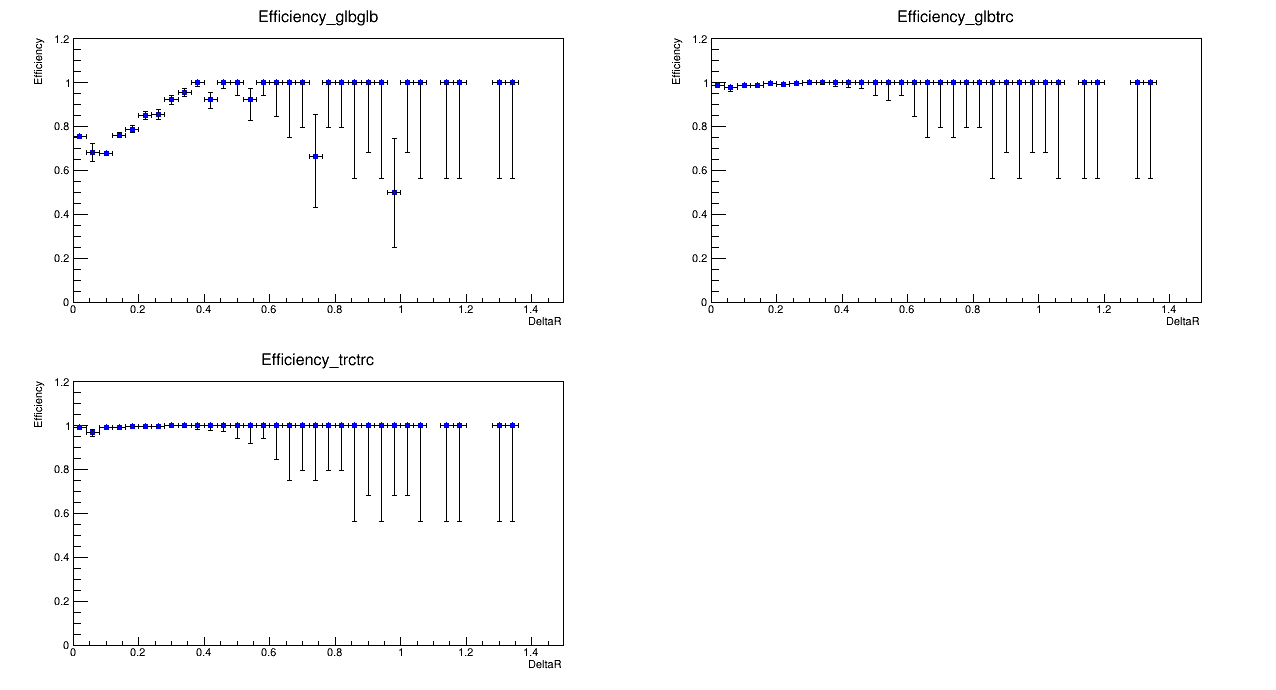
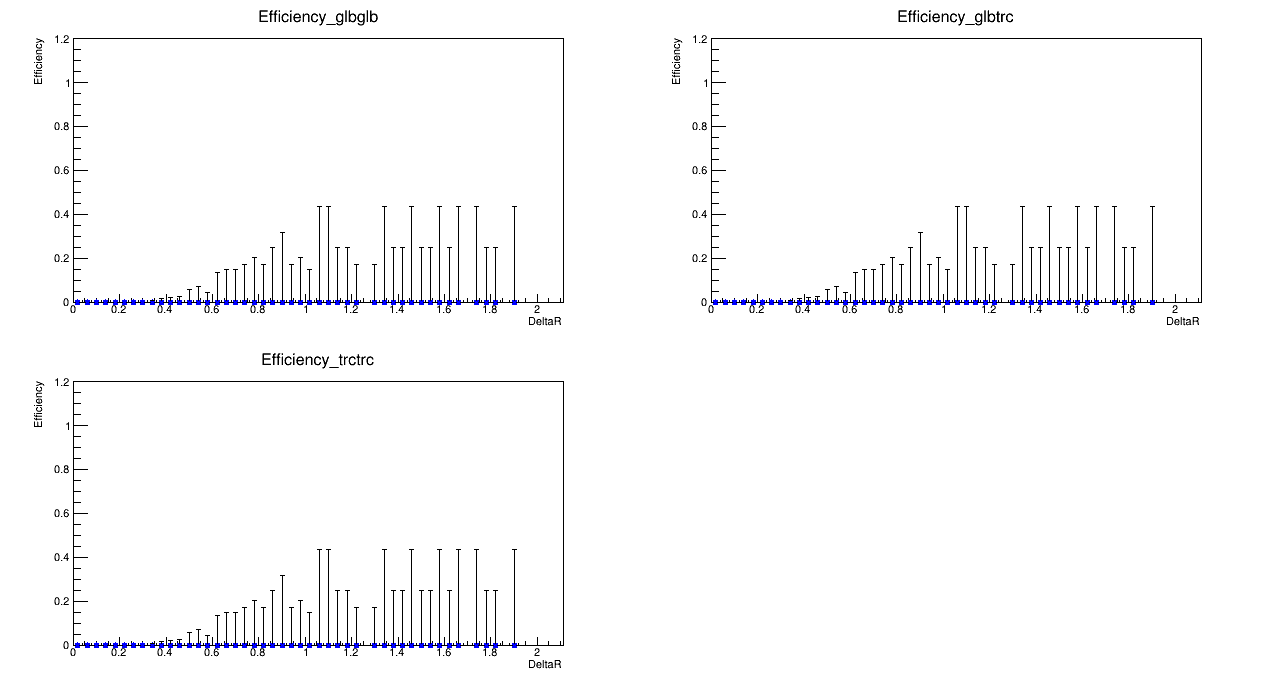
xzh

diff --git a/delpanjTuple_analyzer/13TEV/reconstructEff13TeV.C b/delpanjTuple_analyzer/13TEV/reconstructEff13TeV.C
@@ -80,19 +80,22 @@ void reconstructEff13TeV(){
       else if( genMuIndex[1][0] < 0 ) genMuIndex[1][0] = i; 
       else if( genMuIndex[1][1] < 0 ) genMuIndex[1][1] = i;
 
-      if( (genMuIndex[0][0] >= 0 && genMuIndex[0][1] >= 0 ) ||
-	  (genMuIndex[0][0] >= 0 && genMuIndex[0][1] >= 0 &&
-	   genMuIndex[1][0] >= 0 && genMuIndex[1][1] >= 0 )) break;
+      if( genMuIndex[0][0] >= 0 && genMuIndex[0][1] >= 0 &&
+	  genMuIndex[1][0] >= 0 && genMuIndex[1][1] >= 0 ) break;
 
     }
 
-    if( genMuIndex[0][0] < 0 || 
-	genMuIndex[0][1] < 0 ) continue;
+    if( genMuIndex[0][0] < 0 || genMuIndex[0][1] < 0 ) continue;
 
-    TLorentzVector genMuon[2][2];
+    
+    TLorentzVector genMuon[2][2] = {{TLorentzVector(0,0,0,0),TLorentzVector(0,0,0,0)},
+				    {TLorentzVector(0,0,0,0),TLorentzVector(0,0,0,0)}};
 
     for(Int_t i = 0; i < 2; i++){
       for(Int_t j = 0; j < 2; j++){
+
+	if( genMuIndex[i][j] < 0 )
+	  genMuon[i][j] = TLorentzVector(-999,-999,-999,-999);
 
 	genMuon[i][j].SetPtEtaPhiM(genParPt[genMuIndex[i][j]], 
 				   genParEta[genMuIndex[i][j]], 
@@ -124,7 +127,7 @@ void reconstructEff13TeV(){
     TLorentzVector recoMuoni, recoMuonj;
 
     Double_t dRMin = 0.1;
-    Bool_t findPair[3] = {false, false, false}; //gg,gt,tt
+    Bool_t findPair[2][3] = {{},{false, false, false}}; //gg,gt,tt
 
     for(Int_t gm = 0; gm < 2; gm++){ // genmu for loop
 
@@ -175,13 +178,13 @@ void reconstructEff13TeV(){
 	  Bool_t muMatching = ((dR_reco0gen0 < dRMin && dR_reco1gen1 < dRMin) || (dR_reco0gen1 < dRMin && dR_reco1gen0 < dRMin));
 
 	  if( glbglb && muMatching ) 
-	    findPair[0] = true;
+	    findPair[gm][0] = true;
 
 	  if( atleastglb && muMatching )	   
-	    findPair[1] = true;
+	    findPair[gm][1] = true;
 
 	  if( trktrk && muMatching )
-	    findPair[2] = true;
+	    findPair[gm][2] = true;
 	
 
 	} // end of j for loop
@@ -189,19 +192,21 @@ void reconstructEff13TeV(){
       } // end of i for loop
 
     } // end of genmu loop
-
+    
 
     // Fill histogram with 3 cases
 
-    for(Int_t i = 0; i < 2; i++){
+    for(Int_t gm = 0; gm < 2; gm++){
+      for(Int_t i = 0; i < 2; i++){
 
-      if(findPair[0]) h_DeltaR_glbglb->Fill(gendR[i]);
-      if(findPair[1]) h_DeltaR_glbtrc->Fill(gendR[i]);
-      if(findPair[2]) h_DeltaR_trctrc->Fill(gendR[i]);
+	if(findPair[gm][0]) h_DeltaR_glbglb->Fill(gendR[i]);
+	if(findPair[gm][1]) h_DeltaR_glbtrc->Fill(gendR[i]);
+	if(findPair[gm][2]) h_DeltaR_trctrc->Fill(gendR[i]);
 
+      }
     } 
 
-
+    
   } // End of event loop
 
   fprintf(stderr, "Processed all events\n");
